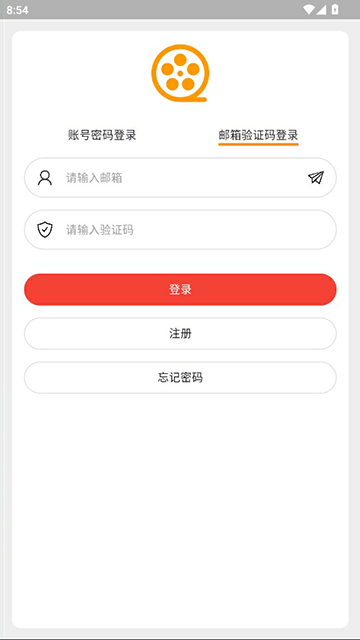
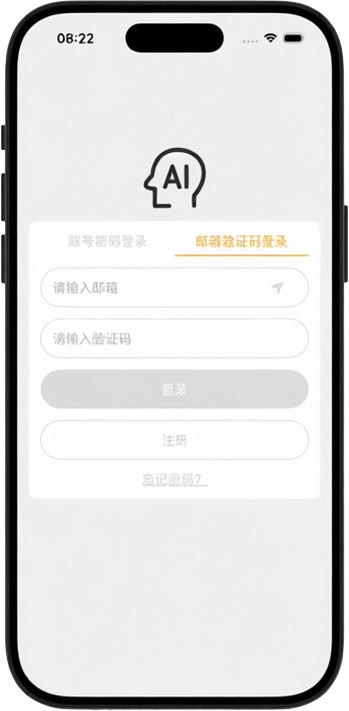
修改预览图

diff --git a/chat/Models/ChatHistory.swift b/chat/Models/ChatHistory.swift
@@ -1,3 +1,10 @@
+//
+//  ChatHistory.swift
+//  chat
+//
+//  Created by 吴文强 on 2026/3/24.
+//
+
 import Foundation
 
 /// 聊天历史记录模型
@@ -34,35 +41,60 @@ struct ChatHistory: Codable, Identifiable {
     }
     
     /// 计算时间差（用于显示）
+    /// 支持解析多种时间格式：
+    /// - ISO 8601: "2026-06-05T22:12:47"
+    /// - 标准格式: "2026-06-05 22:12:47"
     mutating func calculateTimeAgo() {
         guard let createTime = createTime else {
             timeAgo = "刚刚"
             return
         }
         
-        // 解析时间格式 "yyyy-MM-dd HH:mm:ss"
-        let formatter = DateFormatter()
-        formatter.dateFormat = "yyyy-MM-dd HH:mm:ss"
-        formatter.locale = Locale(identifier: "en_US_POSIX")
-        formatter.timeZone = TimeZone.current
+        // 尝试解析 ISO 8601 格式（无毫秒，无时区）
+        let isoFormatter = DateFormatter()
+        isoFormatter.dateFormat = "yyyy-MM-dd'T'HH:mm:ss"
+        isoFormatter.locale = Locale(identifier: "en_US_POSIX")
+        isoFormatter.timeZone = TimeZone.current
         
-        if let date = formatter.date(from: createTime) {
-            let now = Date()
-            let components = Calendar.current.dateComponents([.minute, .hour, .day], from: date, to: now)
-            
-            if let day = components.day, day > 0 {
-                timeAgo = "\(day)天前"
-            } else if let hour = components.hour, hour > 0 {
-                timeAgo = "\(hour)小时前"
-            } else if let minute = components.minute, minute > 0 {
-                timeAgo = "\(minute)分钟前"
-            } else {
-                timeAgo = "刚刚"
-            }
-        } else {
-            print("⚠️ 时间解析失败: \(createTime)")
-            timeAgo = "未知时间"
+        // 尝试解析标准格式
+        let standardFormatter = DateFormatter()
+        standardFormatter.dateFormat = "yyyy-MM-dd HH:mm:ss"
+        standardFormatter.locale = Locale(identifier: "en_US_POSIX")
+        standardFormatter.timeZone = TimeZone.current
+        
+        var date: Date?
+        
+        // 先尝试 ISO 8601 格式
+        if let parsedDate = isoFormatter.date(from: createTime) {
+            date = parsedDate
+            print("✅ ISO格式解析成功: \(createTime) -> \(parsedDate)")
         }
+        // 再尝试标准格式
+        else if let parsedDate = standardFormatter.date(from: createTime) {
+            date = parsedDate
+            print("✅ 标准格式解析成功: \(createTime) -> \(parsedDate)")
+        }
+        
+        guard let validDate = date else {
+            print("⚠️ 时间解析失败，不支持格式: \(createTime)")
+            timeAgo = "未知时间"
+            return
+        }
+        
+        let now = Date()
+        let components = Calendar.current.dateComponents([.minute, .hour, .day], from: validDate, to: now)
+        
+        if let day = components.day, day > 0 {
+            timeAgo = "\(day)天前"
+        } else if let hour = components.hour, hour > 0 {
+            timeAgo = "\(hour)小时前"
+        } else if let minute = components.minute, minute > 0 {
+            timeAgo = "\(minute)分钟前"
+        } else {
+            timeAgo = "刚刚"
+        }
+        
+        print("📅 时间计算完成: \(createTime) -> \(timeAgo)")
     }
 }
 

diff --git a/chat/UI/Components/ChatHistoryDialog.swift b/chat/UI/Components/ChatHistoryDialog.swift
@@ -1,3 +1,10 @@
+//
+//  ChatHistoryDialog.swift
+//  chat
+//
+//  Created by 吴文强 on 2026/3/24.
+//
+
 import SwiftUI
 
 /// 会话记录对话框组件
@@ -27,9 +34,9 @@ struct ChatHistoryDialog: View {
                     // 标题栏
                     headerView
                     
-                    // 可滚动的内容区域
+                    // 可滚动的内容区域 - 设置灰色背景
                     ScrollView {
-                        LazyVStack(spacing: 0) {
+                        LazyVStack(spacing: Dimens.middleMargin) {
                             if isLoading {
                                 ProgressView()
                                     .padding(.vertical, Dimens.largeMargin)
@@ -37,7 +44,8 @@ struct ChatHistoryDialog: View {
                                 emptyStateView
                             } else {
                                 ForEach(sessions) { session in
-                                    SessionHistoryRow(
+                                    // 会话记录卡片
+                                    SessionCard(
                                         session: session,
                                         onTap: {
                                             onSessionSelected(session.chatId)
@@ -56,7 +64,10 @@ struct ChatHistoryDialog: View {
                                 }
                             }
                         }
+                        .padding(.horizontal, Dimens.middleMargin)
+                        .padding(.vertical, Dimens.middleMargin)
                     }
+                    .background(Colors.pageBackgroundColor)  // 设置灰色背景
                 }
                 .frame(
                     width: geometry.size.width,
@@ -219,37 +230,48 @@ struct ChatHistoryDialog: View {
     }
 }
 
-/// 会话记录行视图
-struct SessionHistoryRow: View {
+// MARK: - 会话记录卡片组件
+
+/// 会话记录卡片视图
+struct SessionCard: View {
     let session: ChatSessionGroup
     let onTap: () -> Void
     
     var body: some View {
         Button(action: onTap) {
-            VStack(alignment: .leading, spacing: Dimens.smallIcon) {
-                // 第一条消息内容
+            HStack(spacing: Dimens.middleMargin) {
+                // 左侧：第一条消息内容
                 Text(session.firstMessage)
                     .font(.system(size: Dimens.normalFont))
                     .foregroundColor(.primary)
                     .lineLimit(1)
                     .truncationMode(.tail)
+                    .frame(maxWidth: .infinity, alignment: .leading)
                 
-                // 更新时间
-                Text(session.timeAgo)
-                    .font(.system(size: Dimens.normalFont - 2))
-                    .foregroundColor(Colors.grayColor)
+                // 右侧：更新时间 + 向右箭头
+                HStack(spacing: Dimens.smallIcon) {
+                    Text(session.timeAgo)
+                        .font(.system(size: Dimens.normalFont - 2))
+                        .foregroundColor(Colors.grayColor)
+                    
+                    // 灰色的向右箭头
+                    Image(systemName: "chevron.right")
+                        .font(.system(size: Dimens.smallIcon))
+                        .foregroundColor(Colors.grayColor)
+                }
+                .fixedSize(horizontal: true, vertical: false)  // 防止内容换行
             }
-            .frame(maxWidth: .infinity, alignment: .leading)
             .padding(.horizontal, Dimens.middleMargin)
             .padding(.vertical, Dimens.middleMargin)
+            .background(Colors.whiteColor)
+            .cornerRadius(Dimens.borderRadius)
+            .overlay(
+                RoundedRectangle(cornerRadius: Dimens.borderRadius)
+                    .stroke(Colors.grayColor.opacity(0.3), lineWidth: 1)
+            )
+            .shadow(color: Color.black.opacity(0.05), radius: 4, x: 0, y: 2)
         }
-        .background(Colors.whiteColor)
-        .overlay(
-            Rectangle()
-                .fill(Colors.grayColor.opacity(0.3))
-                .frame(height: 1),
-            alignment: .bottom
-        )
+        .buttonStyle(PlainButtonStyle())
     }
 }
 

diff --git a/chat/UI/Components/UploadDocumentDialog.swift b/chat/UI/Components/UploadDocumentDialog.swift
@@ -1,3 +1,10 @@
+//
+//  UploadDocumentDialog.swift
+//  chat
+//
+//  Created by 吴文强 on 2026/3/24.
+//
+
 import SwiftUI
 import UniformTypeIdentifiers
 
@@ -30,9 +37,9 @@ struct UploadDocumentDialog: View {
                     // 标题栏
                     headerView
                     
-                    // 可滚动的内容区域
+                    // 可滚动的内容区域 - 设置灰色背景
                     ScrollView {
-                        LazyVStack(spacing: 0) {
+                        LazyVStack(spacing: Dimens.middleMargin) {
                             if isLoading {
                                 ProgressView()
                                     .padding(.vertical, Dimens.largeMargin)
@@ -40,7 +47,8 @@ struct UploadDocumentDialog: View {
                                 emptyStateView
                             } else {
                                 ForEach(directories) { directory in
-                                    DirectoryRadioRow(
+                                    // 目录卡片
+                                    DirectoryCard(
                                         directory: directory,
                                         isSelected: selectedDirectoryId == directory.id,
                                         onSelect: {
@@ -50,7 +58,10 @@ struct UploadDocumentDialog: View {
                                 }
                             }
                         }
+                        .padding(.horizontal, Dimens.middleMargin)
+                        .padding(.vertical, Dimens.middleMargin)
                     }
+                    .background(Colors.pageBackgroundColor)  // 设置灰色背景
                     
                     // 底部操作区域
                     bottomActionView
@@ -69,13 +80,11 @@ struct UploadDocumentDialog: View {
         }
         .fileImporter(
             isPresented: $showFilePicker,
-            allowedContentTypes: [.plainText, .text], // .txt 文件
+            allowedContentTypes: [.plainText, .text],
             allowsMultipleSelection: false
         ) { result in
-            // 修复：处理 Result<[URL], Error> 类型，因为 allowsMultipleSelection: false 时返回的是数组
             switch result {
             case .success(let urls):
-                // 取第一个选中的文件
                 if let url = urls.first {
                     handleFileSelection(url)
                 } else {
@@ -210,7 +219,6 @@ struct UploadDocumentDialog: View {
     
     /// 处理文件选择结果
     private func handleFileSelection(_ url: URL) {
-        // 获取文件访问权限
         guard url.startAccessingSecurityScopedResource() else {
             alertMessage = "无法访问文件"
             showAlert = true
@@ -220,7 +228,6 @@ struct UploadDocumentDialog: View {
             url.stopAccessingSecurityScopedResource()
         }
         
-        // 检查文件格式（支持 .txt, .doc, .docx, .md）
         let fileExtension = url.pathExtension.lowercased()
         let allowedExtensions = ["txt", "doc", "docx", "md"]
         
@@ -230,7 +237,6 @@ struct UploadDocumentDialog: View {
             return
         }
         
-        // 上传文件
         uploadFile(fileURL: url)
     }
     
@@ -269,8 +275,10 @@ struct UploadDocumentDialog: View {
     }
 }
 
-/// 目录单选行视图
-struct DirectoryRadioRow: View {
+// MARK: - 目录卡片组件
+
+/// 目录卡片视图
+struct DirectoryCard: View {
     let directory: Directory
     let isSelected: Bool
     let onSelect: () -> Void
@@ -278,9 +286,17 @@ struct DirectoryRadioRow: View {
     var body: some View {
         Button(action: onSelect) {
             HStack {
+                // 目录图标
+                Image(systemName: "folder.fill")
+                    .font(.system(size: Dimens.middleIcon))
+                    .foregroundColor(isSelected ? Colors.primaryColor : Colors.grayColor)
+                
+                // 目录名称
                 Text(directory.directory)
                     .font(.system(size: Dimens.normalFont))
                     .foregroundColor(.primary)
+                    .lineLimit(1)
+                    .truncationMode(.tail)
                 
                 Spacer()
                 
@@ -291,14 +307,15 @@ struct DirectoryRadioRow: View {
             }
             .padding(.horizontal, Dimens.middleMargin)
             .padding(.vertical, Dimens.middleMargin)
+            .background(Colors.whiteColor)
+            .cornerRadius(Dimens.borderRadius)
+            .overlay(
+                RoundedRectangle(cornerRadius: Dimens.borderRadius)
+                    .stroke(isSelected ? Colors.primaryColor : Colors.grayColor.opacity(0.3), lineWidth: isSelected ? 1.5 : 1)
+            )
+            .shadow(color: Color.black.opacity(0.05), radius: 4, x: 0, y: 2)
         }
-        .background(Colors.whiteColor)
-        .overlay(
-            Rectangle()
-                .fill(Colors.grayColor.opacity(0.3))
-                .frame(height: 1),
-            alignment: .bottom
-        )
+        .buttonStyle(PlainButtonStyle())
     }
 }
 

diff --git a/README.md b/README.md
@@ -41,7 +41,11 @@ AI与前端结合的实战经验（从接口调用到UI交互）
 ![选择文档1](选择文档1.png)
 ![选择文档2](选择文档2.png)
 ![ai聊天](ai聊天.png)
-![账号密码登录](账号密码登录.png)
+![ai聊天2](ai聊天2.png)
+![ai聊天2](上传文档1.png)
+![ai聊天2](上传文档2.png)
+![ai聊天2](会话记录.png)
+![账号密码登录](帐号密码登录.png)
 ![邮箱验证码登录](邮箱验证码登录.png)
 ![用户信息](用户信息.png)
 ![更改用户信息1](更改用户信息1.png)